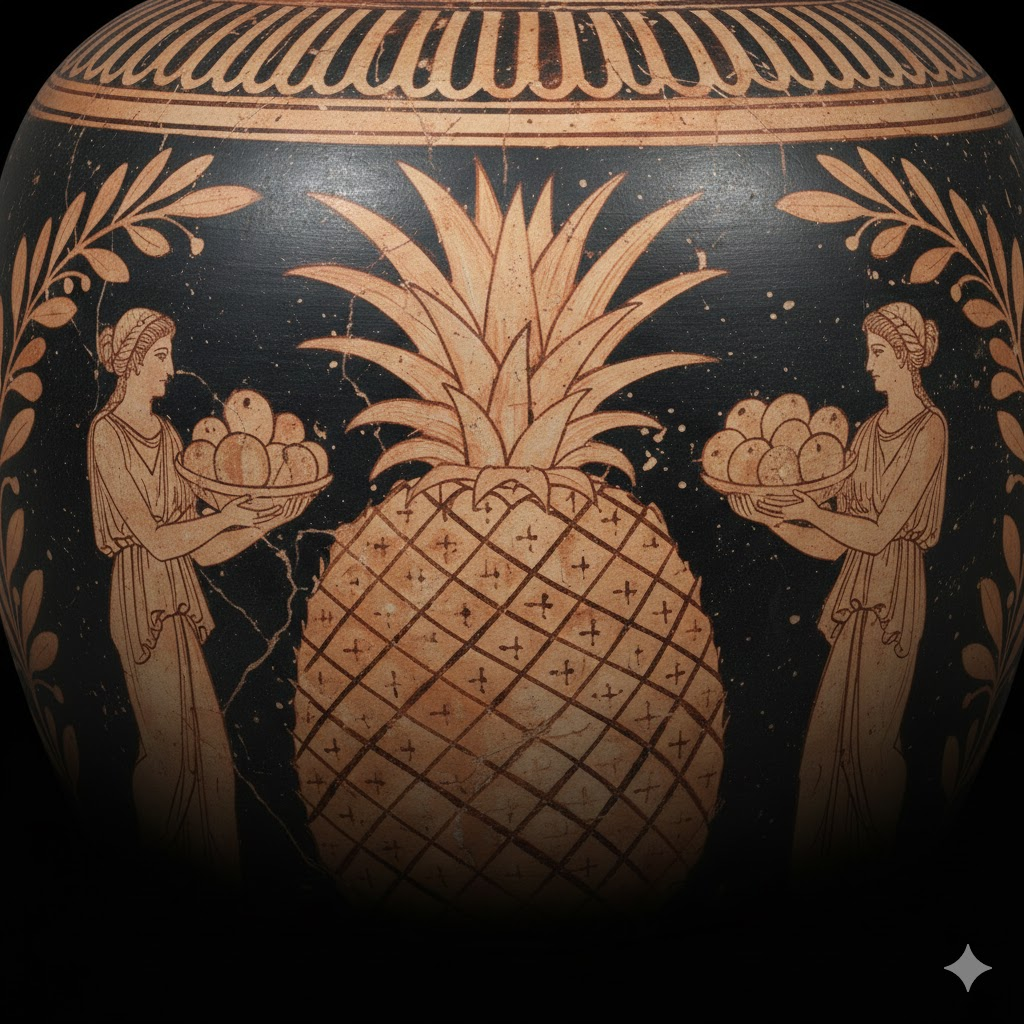
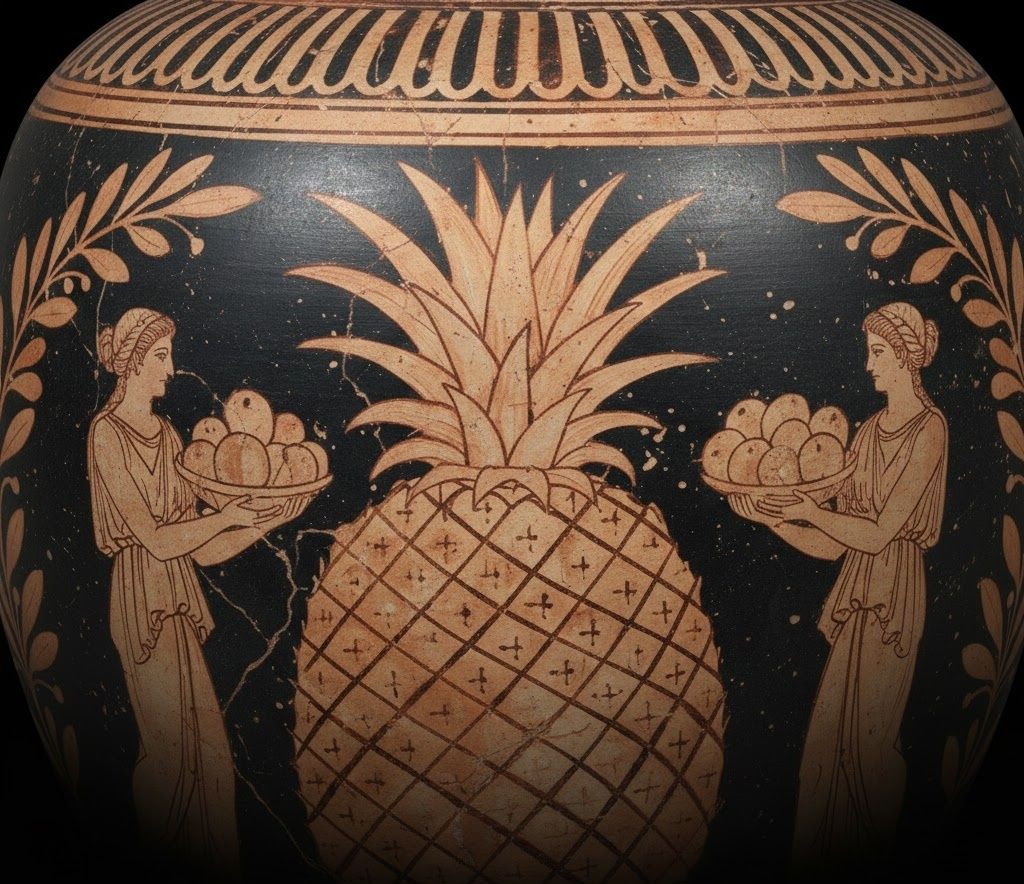
Crop image and resize display in README
- Remove bottom portion of pinacotheca.jpg (logo watermark)
- Display image at 600px width in README

🤖 Generated with [Claude Code](https://claude.com/claude-code)

diff --git a/README.md b/README.md
@@ -4,7 +4,7 @@
 [![Python 3.11+](https://img.shields.io/badge/python-3.11+-blue.svg)](https://www.python.org/downloads/)
 [![Ruff](https://img.shields.io/endpoint?url=https://raw.githubusercontent.com/astral-sh/ruff/main/assets/badge/v2.json)](https://github.com/astral-sh/ruff)
 
-![Pinacotheca](pinacotheca.jpg)
+<img src="pinacotheca.jpg" width="600" alt="Pinacotheca">
 
 A Python tool for extracting and cataloging sprite assets from **Old World** (the 4X strategy game by Mohawk Games). Uses [UnityPy](https://github.com/K0lb3/UnityPy) to extract sprites directly from Unity asset bundles—no external tools like AssetRipper needed.
 
